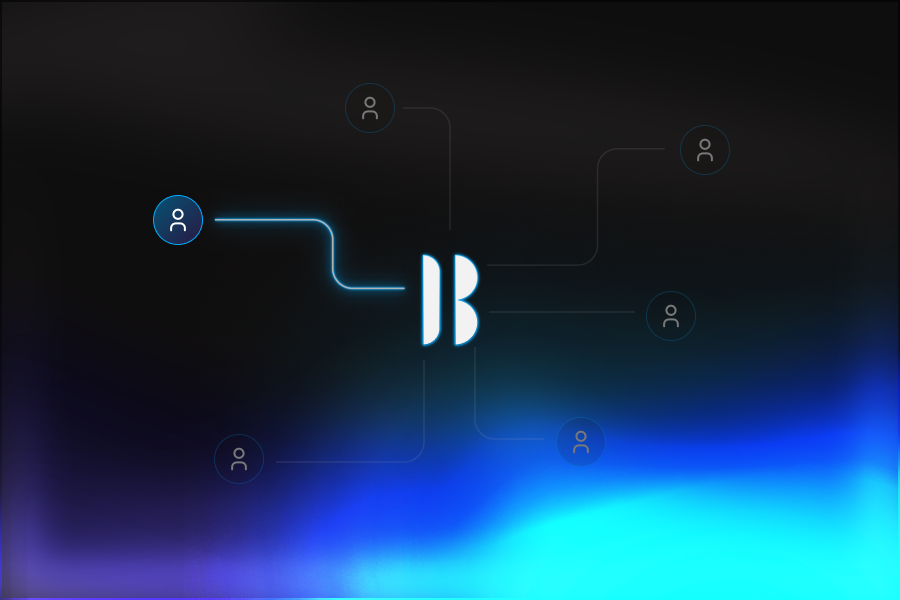
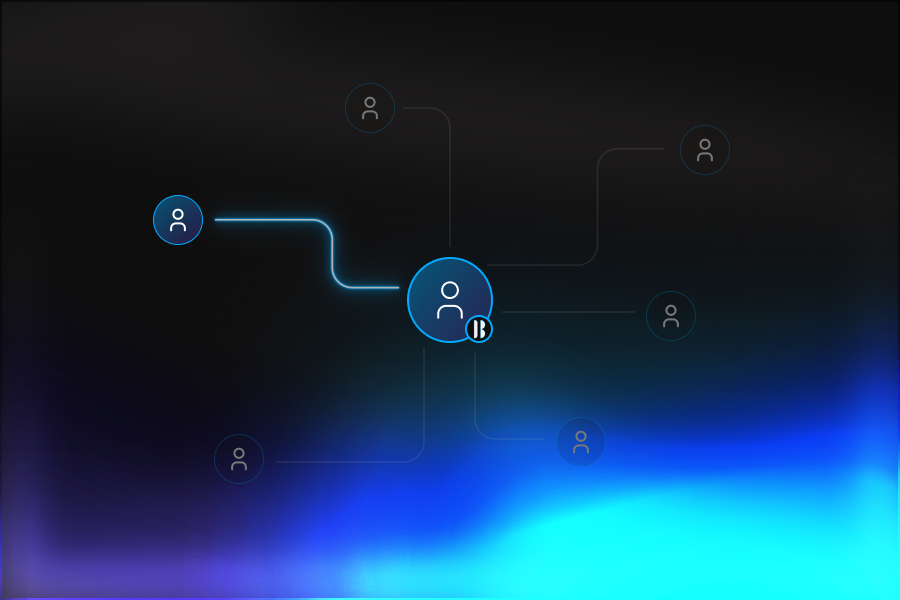
show receiver

Changed region(s): [[0.3733, 0.42, 0.56, 0.6], [0.3422, 0.39, 0.3733, 0.45]]

diff --git a/server/controllers/ogController.ts b/server/controllers/ogController.ts
@@ -1,8 +1,16 @@
 import { Request, Response } from 'express';
-import { bufferPfp, REPLY_COORDINATES } from '../utils/render';
+import {
+  bufferPfp,
+  RECEIVER_PFP_SIZE,
+  REPLY_AVATAR_COORDINATES,
+  REPLY_TEMPLATE_COORDINATES,
+  SENDER_PFP_SIZE,
+  TOKEN_LOGO_SIZE,
+} from '../utils/render';
 import sharp from 'sharp';
 import { getUsersByFIDs } from '../utils/neynar';
 import path from 'path';
+import { size, z } from 'zod';
 
 export const getShareEmbed = (req: Request, res: Response) => {
   try {
@@ -45,16 +53,33 @@ export const getShareEmbed = (req: Request, res: Response) => {
   }
 };
 
+const numericString = z.string().regex(/^\d+$/, 'Must be a numeric string');
+
+const replyEmbedSchema = z.object({
+  senders: z
+    .string()
+    .min(1)
+    .refine(
+      (s) => s.split(',').every((id) => /^\d+$/.test(id)),
+      'All sender FIDs must be numeric'
+    )
+    .transform((s) => s.split(',').map(Number)),
+  receiver: numericString.transform(Number),
+  flowrate: numericString.transform(BigInt),
+});
+
 export const getReplyEmbed = (req: Request, res: Response) => {
   try {
-    const senders = req.query.senders as string;
+    const validated = replyEmbedSchema.safeParse(req.query);
 
-    if (!senders) {
+    if (!validated.success) {
       return res.status(400).send('Missing senders parameter');
     }
 
+    const { senders, receiver, flowrate } = validated.data;
+
     const baseUrl = `https://${req.get('host')}`;
-    const imageUrl = `${baseUrl}/og/reply.png?senders=${senders}`;
+    const imageUrl = `${baseUrl}/og/reply-embed.png?senders=${senders}&receiver=${receiver}&flowrate=${flowrate.toString()}`;
 
     const embed = {
       version: '1',
@@ -64,12 +89,14 @@ export const getReplyEmbed = (req: Request, res: Response) => {
         action: {
           type: 'launch_miniapp',
           name: 'Beamr',
-          url: `${baseUrl}?senders=${senders}`,
+          url: `${baseUrl}?senders=${senders}&receiver=${receiver}&flowrate=${flowrate.toString()}`,
           splashImageUrl: `${baseUrl}/images/splash.png`,
           splashBackgroundColor: '#0F0E0E',
         },
       },
     };
+
+    console.log('embed', embed);
 
     return res.type('text/html').send(`<!DOCTYPE html>
     <html>
@@ -88,42 +115,67 @@ export const getReplyEmbed = (req: Request, res: Response) => {
 export const getReplyImg = async (req: Request, res: Response) => {
   try {
     const __dirname = import.meta.dirname;
-    const senders = req.query.senders as string;
+    const validated = replyEmbedSchema.safeParse(req.query);
 
-    if (!senders) {
+    if (!validated.success) {
       return res.status(400).send('Missing senders parameter');
     }
+    const { senders, receiver } = validated.data;
 
-    const sendersFid = senders
-      .split(',')
-      .map((s) => Number(s.trim()))
-      .slice(0, 6);
+    const count = senders.length;
 
-    const count = sendersFid.length;
+    const profiles = await getUsersByFIDs([...senders, receiver]);
 
-    const profiles = await getUsersByFIDs(sendersFid);
     const pfpUrls = profiles.map((profile) => profile.pfp_url);
+    const senderPfpUrls = pfpUrls.slice(0, -1);
+    const receiverPfpUrl = pfpUrls[pfpUrls.length - 1];
 
     const templatePath = path.join(
       __dirname,
       `../public/img/reply-${count}.png`
     );
 
-    const pfpBuffers = await Promise.all(pfpUrls.map((url) => bufferPfp(url)));
+    const tokenLogoPath = path.join(
+      __dirname,
+      '../public/img/beamrTokenLogo.png'
+    );
 
-    const composites = pfpBuffers.map((buffer, i) => ({
-      input: buffer,
-      left: REPLY_COORDINATES[i][0],
-      top: REPLY_COORDINATES[i][1],
-    }));
+    const senderPfps = await Promise.all(
+      senderPfpUrls.map((url) => bufferPfp(url || '', SENDER_PFP_SIZE))
+    );
+
+    const receiverPfp = await bufferPfp(
+      receiverPfpUrl || '',
+      RECEIVER_PFP_SIZE
+    );
+
+    const composites = [
+      ...senderPfps.map((buffer, i) => ({
+        input: buffer,
+        left: REPLY_AVATAR_COORDINATES[i][0],
+        top: REPLY_AVATAR_COORDINATES[i][1],
+      })),
+      {
+        input: receiverPfp,
+        left: REPLY_TEMPLATE_COORDINATES.RECEIVER[0],
+        top: REPLY_TEMPLATE_COORDINATES.RECEIVER[1],
+      },
+      {
+        input: tokenLogoPath,
+        left: REPLY_TEMPLATE_COORDINATES.TOKEN_LOGO[0],
+        top: REPLY_TEMPLATE_COORDINATES.TOKEN_LOGO[1],
+        size: TOKEN_LOGO_SIZE,
+      },
+    ];
 
     const result = await sharp(templatePath)
       .composite(composites)
-      .webp()
+      .png()
       .toBuffer();
 
-    res.setHeader('Content-Type', 'image/webp');
+    res.setHeader('Content-Type', 'image/png');
     res.setHeader('Cache-Control', 'public, max-age=60');
+
     return res.send(result);
   } catch (error) {
     console.error('Error generating OG reply image:', error);

diff --git a/server/utils/render.ts b/server/utils/render.ts
@@ -1,6 +1,6 @@
 import sharp from 'sharp';
 
-export const REPLY_COORDINATES = [
+export const REPLY_AVATAR_COORDINATES = [
   [153, 195],
   [345, 83],
   [680, 125],
@@ -9,14 +9,21 @@ export const REPLY_COORDINATES = [
   [214, 434],
 ];
 
-const PFP_SIZE = 50;
+export const REPLY_TEMPLATE_COORDINATES = {
+  RECEIVER: [407, 257],
+  TOKEN_LOGO: [465, 315],
+};
 
-export const bufferPfp = async (url?: string) => {
+export const SENDER_PFP_SIZE = 50;
+export const RECEIVER_PFP_SIZE = 86;
+export const TOKEN_LOGO_SIZE = 28;
+
+export const bufferPfp = async (url: string, pfpSize: number) => {
   if (!url) {
     return sharp({
       create: {
-        width: PFP_SIZE,
-        height: PFP_SIZE,
+        width: pfpSize,
+        height: pfpSize,
         channels: 4,
         background: { r: 50, g: 50, b: 50, alpha: 1 },
       },
@@ -30,11 +37,11 @@ export const bufferPfp = async (url?: string) => {
   const buffer = Buffer.from(await response.arrayBuffer());
 
   const circleMask = Buffer.from(
-    `<svg><circle cx="${PFP_SIZE / 2}" cy="${PFP_SIZE / 2}" r="${PFP_SIZE / 2}" fill="white"/></svg>`
+    `<svg><circle cx="${pfpSize / 2}" cy="${pfpSize / 2}" r="${pfpSize / 2}" fill="white"/></svg>`
   );
 
   return sharp(buffer)
-    .resize(PFP_SIZE, PFP_SIZE)
+    .resize(pfpSize, pfpSize)
     .composite([{ input: circleMask, blend: 'dest-in' }])
     .png()
     .toBuffer();

diff --git a/server/routes/ogRoutes.ts b/server/routes/ogRoutes.ts
@@ -4,4 +4,4 @@ import { getReplyEmbed, getReplyImg } from '../controllers/ogController';
 export const ogRoute = Router();
 
 ogRoute.get('/reply-embed', getReplyEmbed);
-ogRoute.get('/reply-embed.webp', getReplyImg);
+ogRoute.get('/reply-embed.png', getReplyImg);
